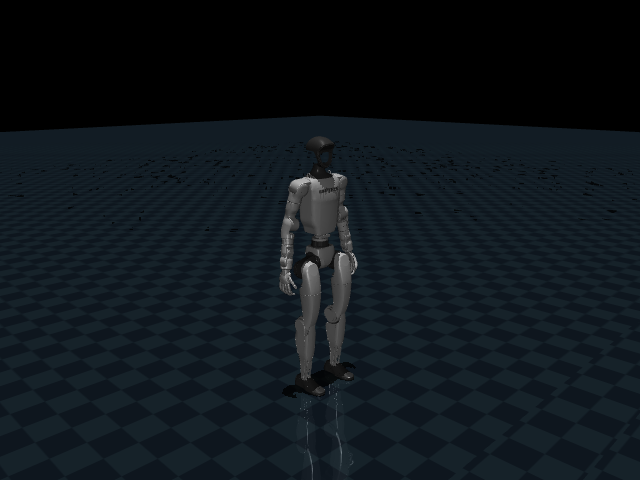
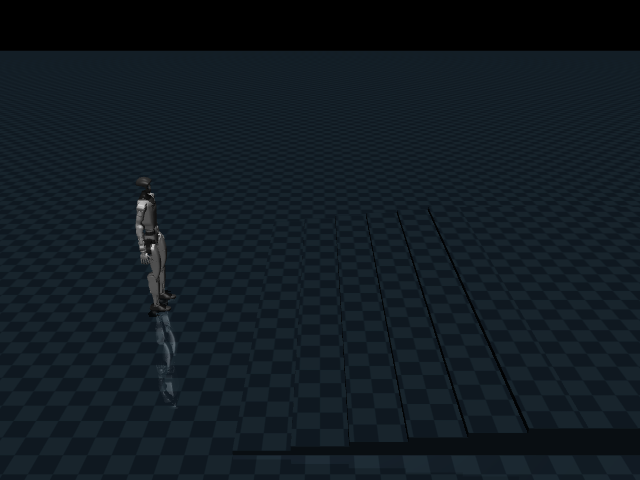
Document packaging verification and add terrain overview

diff --git a/docs/VALIDATION.md b/docs/VALIDATION.md
@@ -18,6 +18,9 @@ GTX 1660 Ti Mobile 6144 MiB, NVIDIA driver 595.99.02.
 - Report: summary JSON/episode CSV rendered to PNG and Markdown.
 - Video: all five flat scenarios, one episode each, 1-second horizon, MP4 output.
 - EGL rendering outside sandbox reports `NVIDIA GeForce GTX 1660 Ti/PCIe/SSE2`, 640×480 RGB.
+- Built a distributable wheel with build isolation; verified G1 XML/license/meshes and reset the
+  environment from an extracted wheel, independently of the editable source package.
+- Venv-only dependency check passes with system ROS `PYTHONPATH` removed.
 
 Two expected Gymnasium warnings: unbounded observation Box. Observation values are checked for
 finiteness and policy inputs use VecNormalize. No failure was suppressed.
